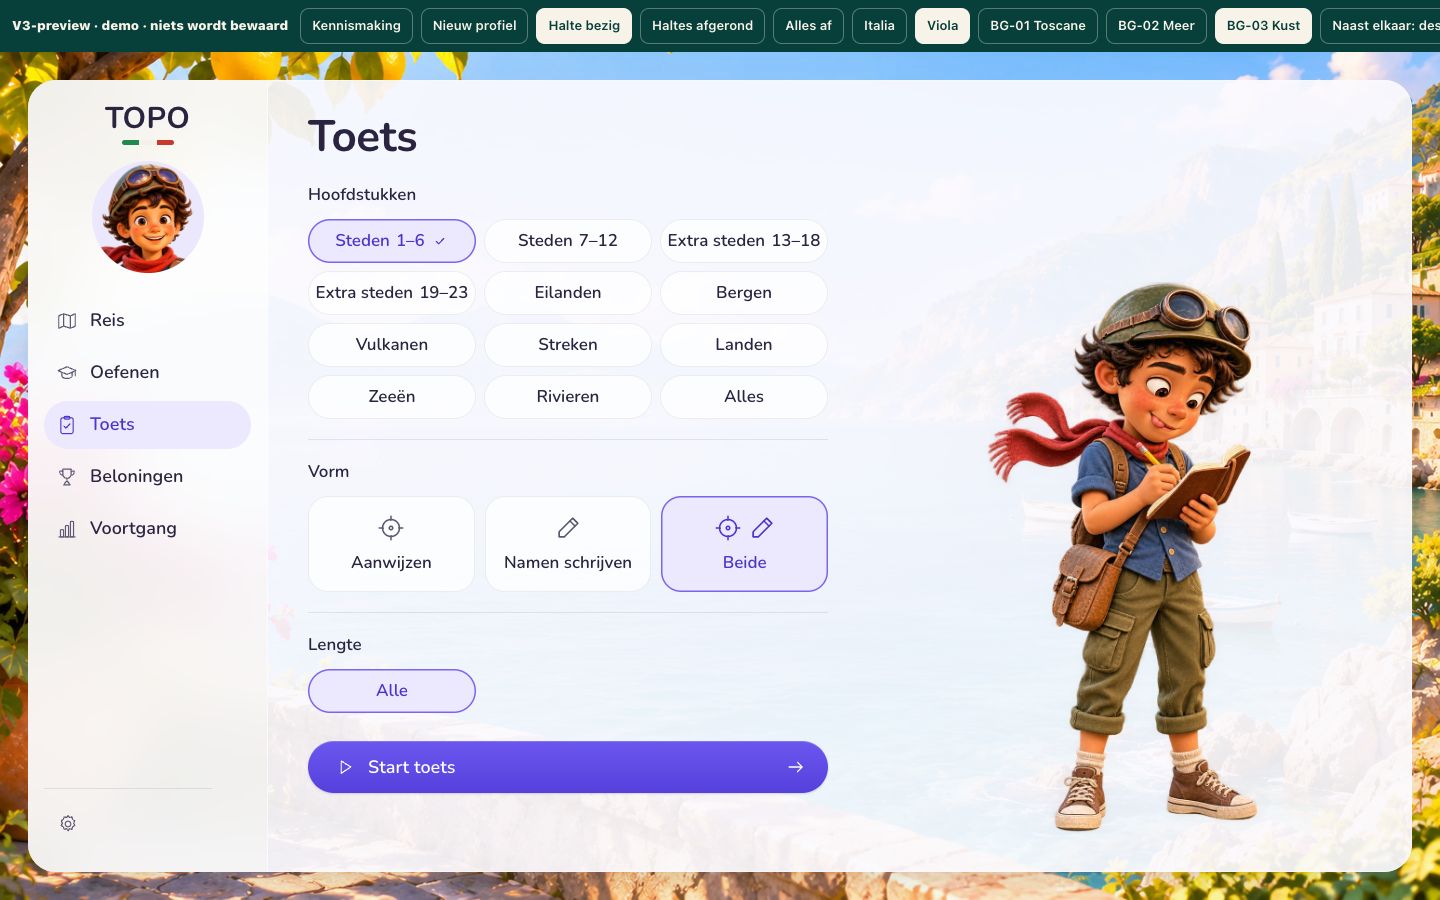
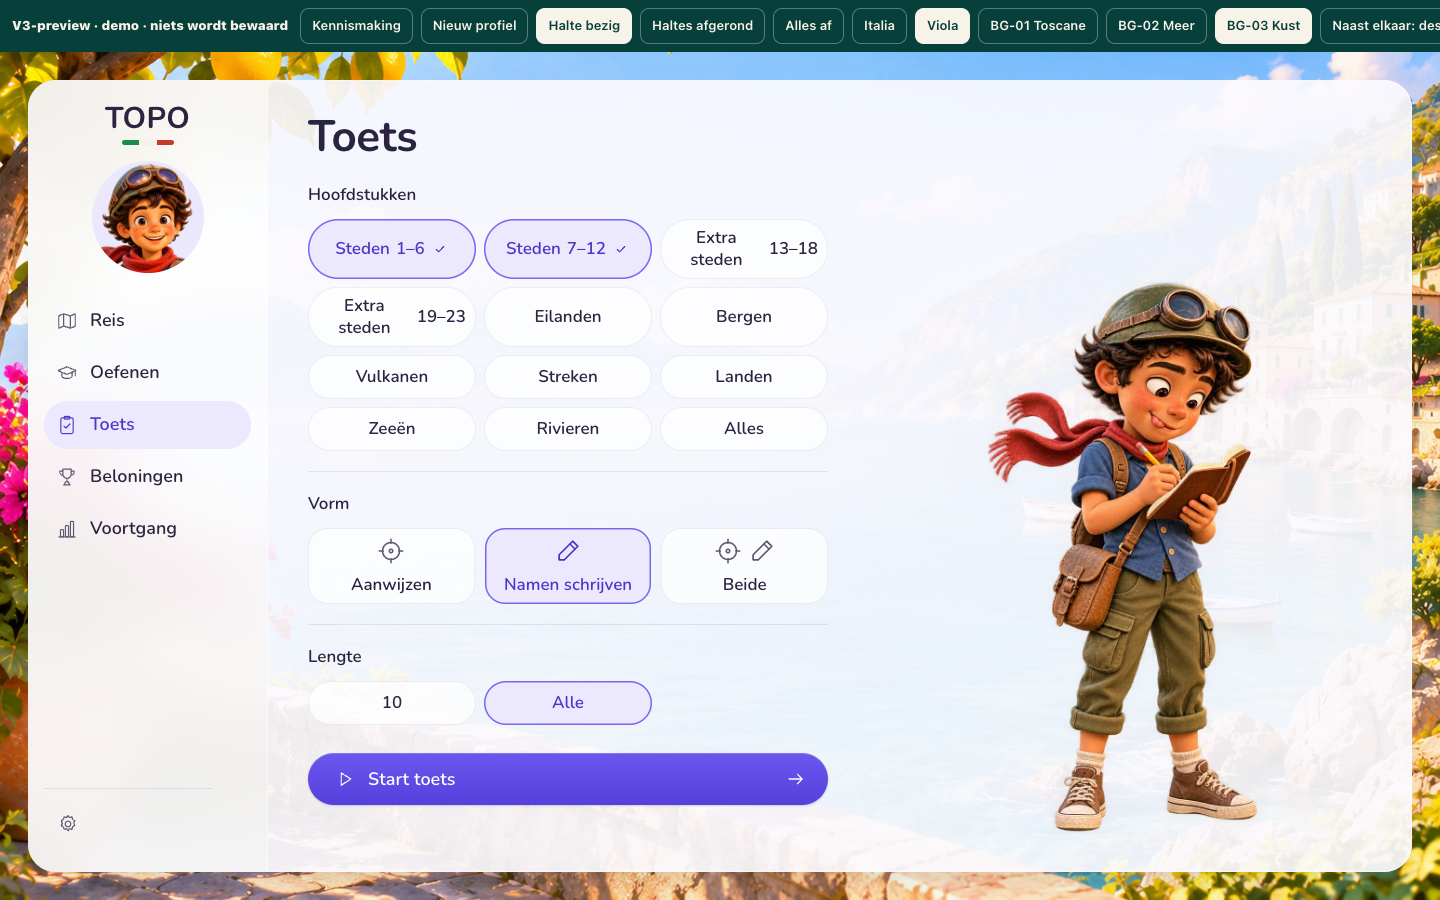
fix(v3): maak toetskeuzes aanraakbaar en laat labels passen (ronde 3 punt 3)

diff --git a/scripts/v3/ronde3.css b/scripts/v3/ronde3.css
@@ -6,3 +6,6 @@
  .v3Reis .v3MapTools .v3SchoolBtn{width:auto;min-height:44px;padding:0 12px;flex-shrink:0;touch-action:manipulation}
  .v3Reis .v3MapTools .v3SchoolBtn span{position:static;width:auto;height:auto;overflow:visible;clip:auto}
 }
+.v3 .v3ToetsSetup :is(.v3Chip,.v3FormBtn){min-width:44px;min-height:44px;height:auto;white-space:normal;line-height:1.3;padding:8px 10px;touch-action:manipulation;pointer-events:auto}
+.v3ToetsSetup :is(.v3Icon,.v3FormIcons){pointer-events:none;flex-shrink:0}
+.v3ToetsSetupNino{pointer-events:none}

diff --git a/scripts/qa-v3-ronde3.py b/scripts/qa-v3-ronde3.py
@@ -24,6 +24,15 @@ async def check(p,n,touch):
   assert await p.locator('#schoolbladDialog').evaluate('n=>n.open')
   await p.keyboard.press('Escape')
   if touch:assert await p.locator('.v3SchoolBtn span').evaluate('n=>n.getBoundingClientRect().width')>30
+ if n==3:
+  await q.goto(p,'toets')
+  bad=await p.locator('.v3ToetsSetup button').evaluate_all("nodes=>nodes.filter(n=>{const r=n.getBoundingClientRect();return r.width<44||r.height<44||n.scrollWidth>n.clientWidth+1}).map(n=>n.textContent)")
+  assert not bad,bad
+  await act(p,'.v3ToetsForms [data-value=write]',touch)
+  assert await p.locator('.v3ToetsForms [data-value=write]').get_attribute('aria-pressed')=='true'
+  await act(p,'[aria-labelledby=v3ToetsHoofdstukken] [data-group=city2]',touch)
+  assert await p.locator('[aria-labelledby=v3ToetsHoofdstukken] [data-group=city2]').get_attribute('aria-pressed')=='true'
+  return 'toets'
  return 'reis'
 async def main(point):
  initial=hashlib.sha256(q.HTML.read_bytes()).hexdigest();runs={}
